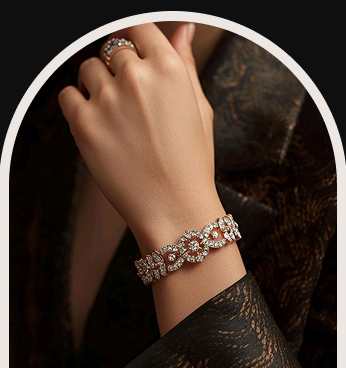
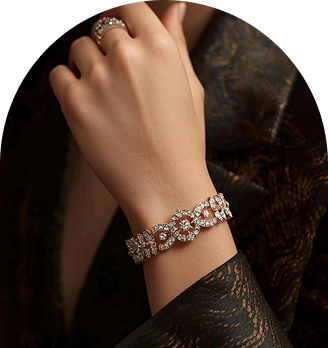
style: update FeaturedCollections component and add styles for collection cards

diff --git a/frontend/src/components/home/FeaturedCollections.jsx b/frontend/src/components/home/FeaturedCollections.jsx
@@ -1,4 +1,33 @@
-import { ArrowRight } from 'lucide-react';
+const collections = [
+  {
+    key: 'necklace',
+    name: 'NECKLACE',
+    alt: 'Diamond pendant necklace',
+    image: '/images/collections/necklace-photo.png',
+    href: '#collections',
+  },
+  {
+    key: 'rings',
+    name: 'RINGS',
+    alt: 'Diamond ring',
+    image: '/images/collections/rings-photo.png',
+    href: '#collections',
+  },
+  {
+    key: 'bracelets',
+    name: 'BRACELETS',
+    alt: 'Diamond bracelet',
+    image: '/images/collections/bracelets-photo.png',
+    href: '#collections',
+  },
+  {
+    key: 'earrings',
+    name: 'EARRINGS',
+    alt: 'Diamond earrings',
+    image: '/images/collections/earrings-photo.png',
+    href: '#collections',
+  },
+];
 
 export default function FeaturedCollections() {
   return (
@@ -17,67 +46,21 @@ export default function FeaturedCollections() {
           />
         </div>
 
-        <div className="mt-14 grid grid-cols-2 gap-3 sm:gap-5 lg:mt-16 lg:grid-cols-4 lg:gap-6">
-          {[
-            {
-              key: 'necklace',
-              name: 'NECKLACE',
-              alt: 'Diamond pendant necklace',
-              image: '/images/collections/necklace-photo.png',
-              href: '#collections',
-            },
-            {
-              key: 'rings',
-              name: 'RINGS',
-              alt: 'Diamond ring',
-              image: '/images/collections/rings-photo.png',
-              href: '#collections',
-            },
-            {
-              key: 'bracelets',
-              name: 'BRACELETS',
-              alt: 'Diamond bracelet',
-              image: '/images/collections/bracelets-photo.png',
-              href: '#collections',
-            },
-            {
-              key: 'earrings',
-              name: 'EARRINGS',
-              alt: 'Diamond earrings',
-              image: '/images/collections/earrings-photo.png',
-              href: '#collections',
-            },
-          ].map(({ key, name, image, alt, href }, i) => (
-            <a
-              key={key}
-              href={href}
-              className="group relative isolate flex flex-col overflow-hidden rounded-t-[220px] transition-all duration-500 ease-luxe"
-              style={{ transitionDelay: `${80 * i}ms` }}
-            >
-              <div className="relative aspect-[4/5] w-full overflow-hidden rounded-t-[220px] border border-b-0 border-white/40 transition-all duration-500 ease-luxe group-hover:border-white/60">
+        <div className="collection-grid mx-auto mt-14 lg:mt-16">
+          {collections.map(({ key, name, image, alt, href }) => (
+            <a key={key} href={href} className="collection-card">
+              <div className="collection-card__media">
                 <img
                   src={image}
                   alt={alt}
                   loading="lazy"
-                  sizes="(max-width: 640px) 50vw, (max-width: 1024px) 25vw, 20vw"
-                  className="absolute inset-0 h-full w-full object-cover object-[center_25%] transform-gpu transition-transform duration-[2000ms] ease-luxe group-hover:scale-[1.06]"
-                />
-                <div
-                  aria-hidden="true"
-                  className="absolute inset-0 bg-gradient-to-t from-ink/90 via-ink/10 to-transparent"
+                  sizes="(max-width: 767px) 50vw, (max-width: 1023px) 50vw, 25vw"
                 />
               </div>
-              <div className="flex flex-col items-center justify-center gap-2 rounded-b-sm border border-t-0 border-white/40 bg-white px-3 py-5 text-center transition-all duration-500 ease-luxe group-hover:border-white/60 sm:py-6">
-                <span className="text-[10px] tracking-wideluxe text-ink sm:text-[11px]">{name}</span>
-                <span
-                  aria-hidden="true"
-                  className="h-px w-10 bg-gold/70 transition-all duration-500 ease-luxe group-hover:w-14"
-                />
+              <div className="collection-card__label">
+                <span className="collection-card__name">{name}</span>
+                <span aria-hidden="true" className="collection-card__underline" />
               </div>
-              <span
-                aria-hidden="true"
-                className="absolute inset-x-0 bottom-0 h-[1px] origin-left scale-x-0 bg-gold transition-transform duration-700 ease-luxe group-hover:scale-x-100"
-              />
             </a>
           ))}
         </div>

diff --git a/frontend/src/index.css b/frontend/src/index.css
@@ -30,6 +30,101 @@
   }
 }
 
+@layer components {
+  /* Featured Collection — arch cards */
+  .collection-grid {
+    display: grid;
+    grid-template-columns: repeat(2, minmax(0, 1fr));
+    gap: 16px;
+    align-items: stretch;
+  }
+
+  .collection-card {
+    --arch: clamp(64px, 30vw, 150px);
+    position: relative;
+    display: flex;
+    flex-direction: column;
+    min-width: 0;
+    overflow: hidden;
+    border: 1px solid rgba(240, 230, 220, 0.45);
+    border-radius: var(--arch) var(--arch) 2px 2px;
+    background: #f4eee8;
+    transition: border-color 300ms cubic-bezier(0.22, 1, 0.36, 1);
+  }
+
+  .collection-card:hover {
+    border-color: rgba(240, 230, 220, 0.72);
+  }
+
+  .collection-card__media {
+    position: relative;
+    width: 100%;
+    height: clamp(176px, 58vw, 360px);
+    overflow: hidden;
+  }
+
+  .collection-card__media img {
+    display: block;
+    width: 100%;
+    height: 100%;
+    object-fit: cover;
+    object-position: center;
+    transform: translateZ(0);
+    transition: transform 300ms cubic-bezier(0.22, 1, 0.36, 1);
+    will-change: transform;
+  }
+
+  .collection-card:hover .collection-card__media img {
+    transform: scale(1.025);
+  }
+
+  .collection-card__label {
+    display: flex;
+    flex-direction: column;
+    align-items: center;
+    justify-content: center;
+    gap: 8px;
+    height: clamp(58px, 8vw, 74px);
+    padding: 0 12px;
+    background: #f4eee8;
+    text-align: center;
+  }
+
+  .collection-card__name {
+    font-size: 10px;
+    font-weight: 500;
+    letter-spacing: 3px;
+    text-transform: uppercase;
+    line-height: 1;
+    color: #171717;
+  }
+
+  .collection-card__underline {
+    display: block;
+    width: 30px;
+    height: 1px;
+    background: rgba(185, 150, 91, 0.85);
+    transition: width 300ms cubic-bezier(0.22, 1, 0.36, 1);
+  }
+
+  .collection-card:hover .collection-card__underline {
+    width: 42px;
+  }
+
+  @media (min-width: 768px) {
+    .collection-grid {
+      gap: 20px;
+    }
+  }
+
+  @media (min-width: 1024px) {
+    .collection-grid {
+      grid-template-columns: repeat(4, minmax(0, 1fr));
+      gap: 24px;
+    }
+  }
+}
+
 @layer utilities {
   .shimmer {
     background-size: 400% 400%;
